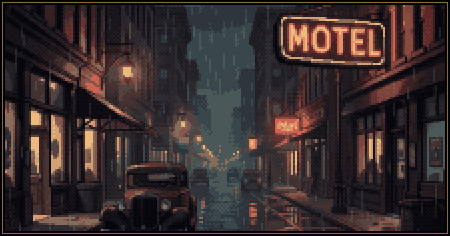
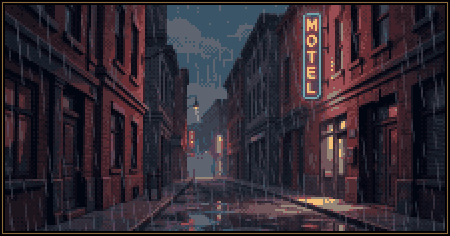
Mirror the motel close-up so its vertical sign is on the right, as in the motel scenes
The convent-road inset now uses a picture with a vertical amber-and-blue MOTEL sign on the right (sign pasted
back unmirrored so it reads correctly); the ink line describing it matches.

diff --git a/tools/art/closeup.py b/tools/art/closeup.py
@@ -13,7 +13,9 @@ chunky pixels, a tight palette and ordered dithering, inside a dark bevelled fra
 - beaten_closeup: Micah flat on his back after a beating (Hubbard Street in Act 2, the cathedral steps in Act 3), looking up from under his hat.
 - fire_escape_closeup: on the motel fire escape after the First Interlude, Micah on the left and Eleanor on the right, two portraits
   in one panel split by a bar in the frame's colours. Micah's picture is zoomed so his face is the same size as hers.
-- motel_closeup: a red neon MOTEL sign over a rain-soaked Chicago street at night.
+- motel_closeup: a vertical neon MOTEL sign, amber letters in a blue tube, high on the right of a rain-soaked Chicago
+  street at night, matching the sign in the motel scenes. The source is the original picture mirrored to put the sign
+  there, with the sign itself pasted back unmirrored so MOTEL still reads left to right.
 - vows_photo: Micah and Rose on the day they renewed their vows (ending 1's epilogue), a portrait-shaped sepia
   studio print on a cream 1920s card mount with worn corners, instead of the dark frame.
 """
@@ -29,8 +31,8 @@ CLOTHED_SRC = os.path.join(ROOT, "tools", "art", "src", "stage_closeup_clothed.p
 ROSE_SRC = os.path.join(ROOT, "tools", "art", "src", "rose_closeup.png")
 BEATEN_SRC = os.path.join(ROOT, "tools", "art", "src", "beaten_closeup.png")
 MOTEL_SRC = os.path.join(ROOT, "tools", "art", "src", "motel_street.png")
-MOTEL_TOP = 245 / 1024  # just above the neon sign in the square source, so the wet street below stays in view
-MOTEL_SIGN, MOTEL_NEON = (138, 6, 188, 28), 6  # the sign's letters in panel art pixels, and the colours kept for them
+MOTEL_TOP = 0  # the top of the 1344x768 source, just above the neon sign, trimming only the bottom of the wet street
+MOTEL_SIGN, MOTEL_NEON = (149, 5, 158, 47), 6  # the vertical sign in panel art pixels, and the colours kept for it
 AW, AH = 220, 113  # art pixels, the picture's 1.95:1, so both masked men stay in view
 SCALE = 2  # doubled into chunky pixels, nearly filling the 480x270 screen
 IW, IH = AW * SCALE, AH * SCALE
@@ -182,7 +184,7 @@ def motel_crop(src):
 
 
 def motel_closeup(src):
-    """The red neon MOTEL sign over a rain-soaked street at night."""
+    """The vertical neon MOTEL sign on the right, over a rain-soaked street at night."""
     img = motel_crop(src)
     small = img.resize((AW, AH), Image.BOX)
     # the neon is a sliver of the picture: give the sign its own reds so the reduction keeps it glowing

diff --git a/tests/art/test_motel_closeup.py b/tests/art/test_motel_closeup.py
@@ -1,5 +1,5 @@
-"""The framed close-up of the red neon MOTEL sign over the wet street, reduced to a VGA panel from the committed
-picture."""
+"""The framed close-up of the vertical neon MOTEL sign on the right over the wet street, reduced to a VGA panel from
+the committed picture."""
 from pathlib import Path
 import sys
 import unittest
@@ -50,14 +50,17 @@ class MotelCloseupTests(unittest.TestCase):
     def test_limited_palette(self):
         self.assertLessEqual(len(inner(self.panel).getcolors(4096)), closeup.COLOURS)
 
-    def test_the_neon_sign_glows_red_at_the_top_right_over_a_dark_street(self):
+    def test_the_vertical_neon_sign_glows_amber_in_blue_at_the_top_right_over_a_dark_street(self):
         a = np.asarray(inner(self.panel), dtype=float)
         x0, y0, x1, y1 = closeup.MOTEL_SIGN
+        self.assertGreater(x0, closeup.AW // 2, "on the right, as in the motel scenes")
+        self.assertGreater(y1 - y0, (x1 - x0) * 3, "a vertical sign")
         sign = a[y0:y1, x0:x1]
         r, g, b = sign[..., 0], sign[..., 1], sign[..., 2]
-        neon = (r > 170) & (r > g * 1.4) & (r > b * 1.6)
-        self.assertGreater(neon.mean(), 0.08, "bright red neon letters")
-        self.assertGreater(r.mean(), g.mean() * 1.3)
+        neon = (r > 200) & (g > 150) & (r > b * 1.4)
+        self.assertGreater(neon.mean(), 0.08, "bright amber neon letters")
+        tube = (b > 150) & (b > r * 1.3)
+        self.assertGreater(tube[:, 0].mean(), 0.8, "a blue neon tube down its side")
         self.assertLess(a[:, :, :].mean(), 90, "a night scene")
         self.assertGreater(sign.mean(), a[:, :closeup.AW // 3].mean())
 
